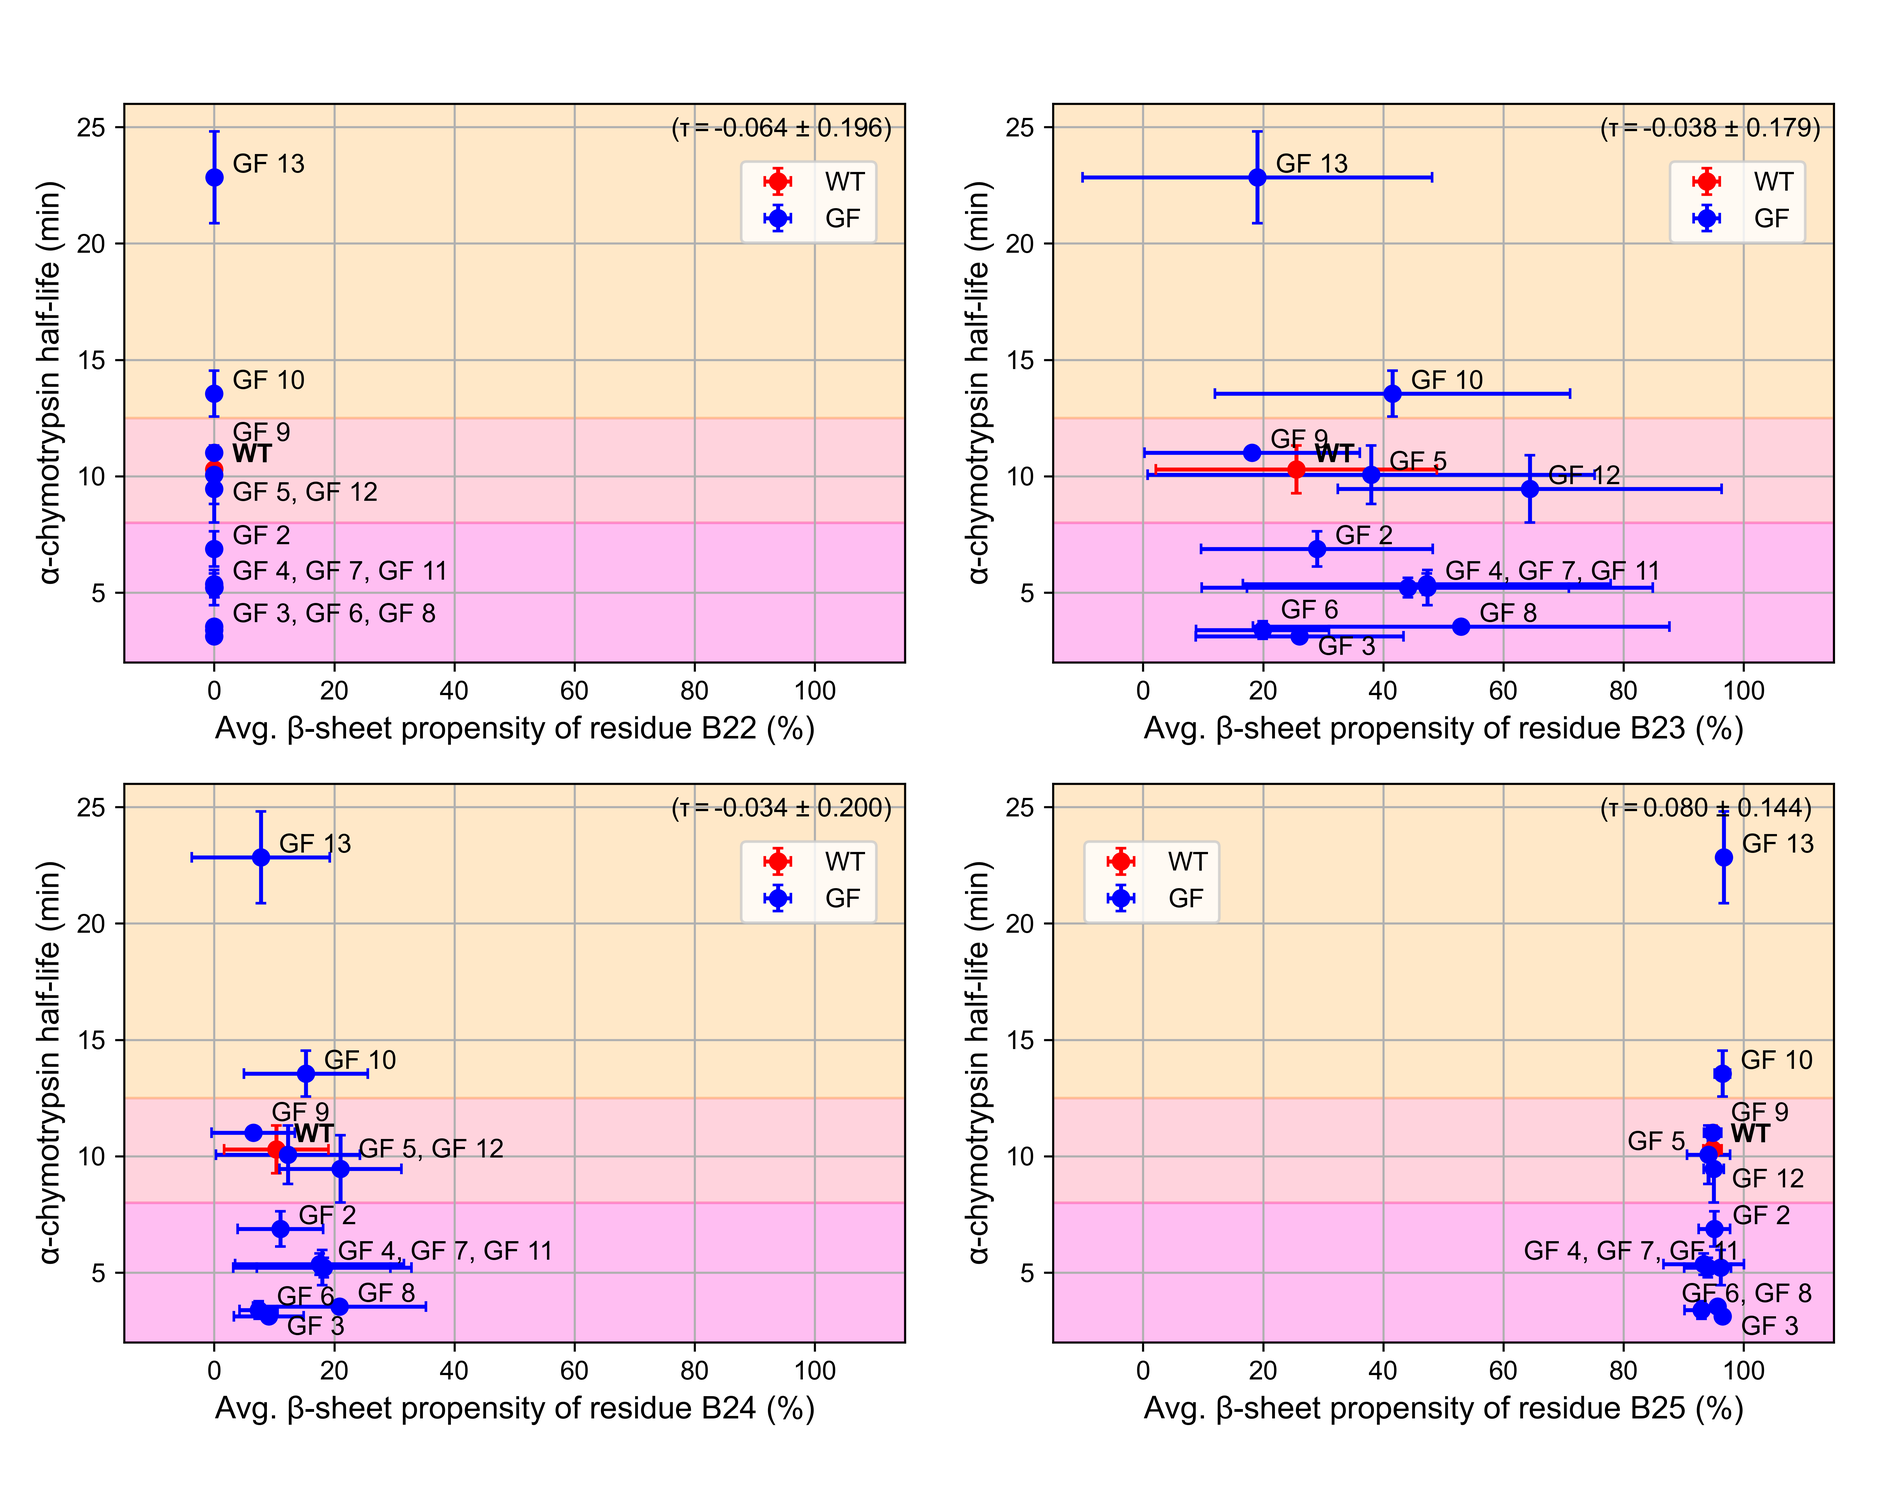
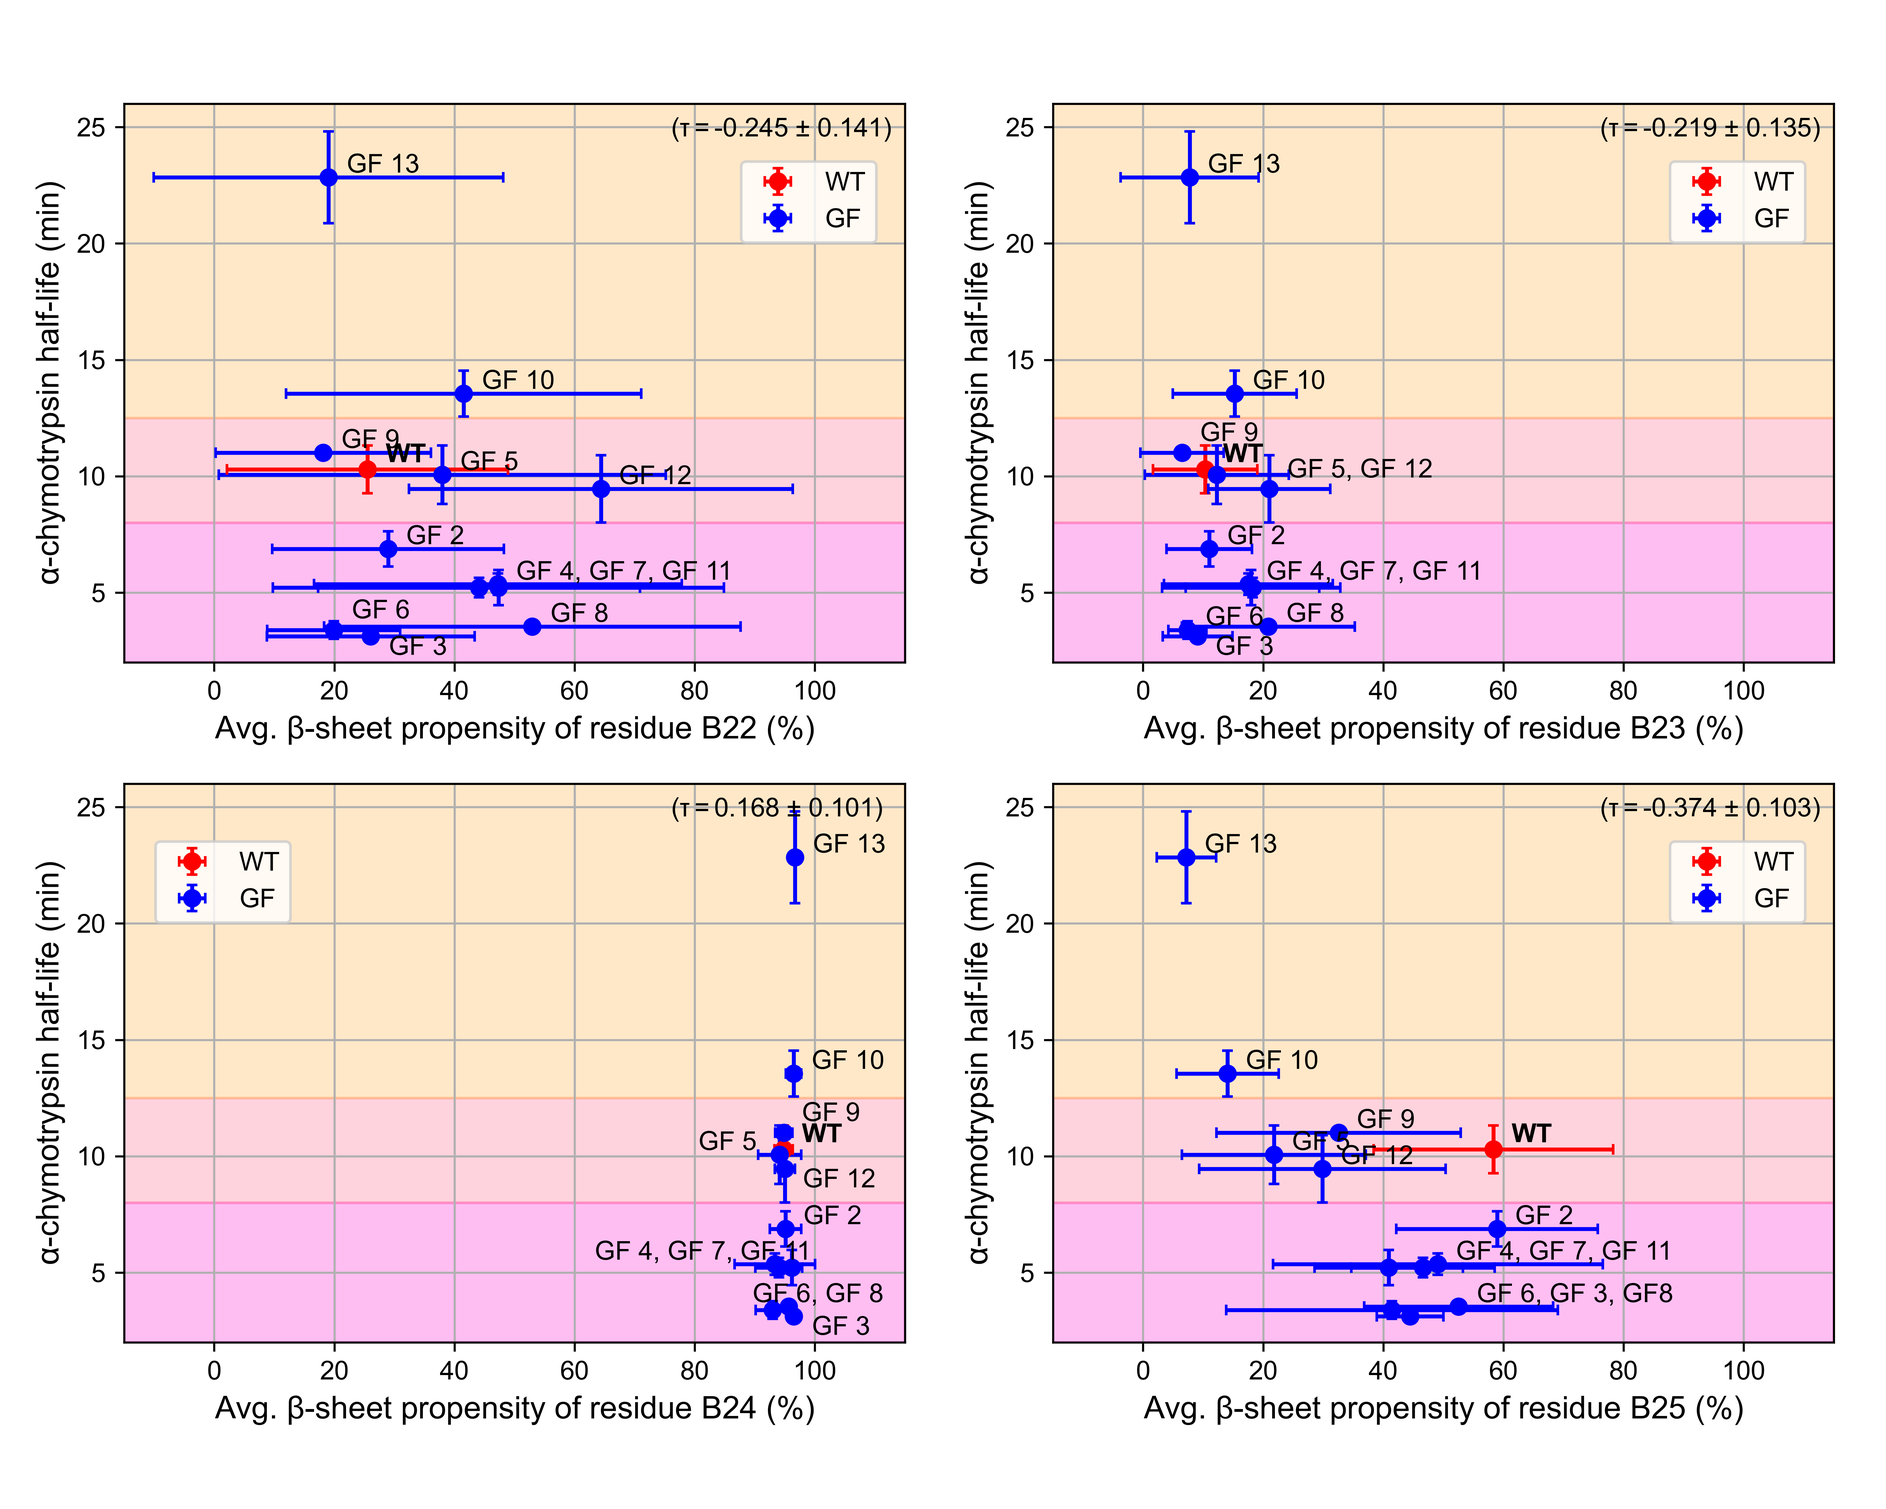
Modified the codes for plotting correlation plots in the main text and updated the plots

diff --git a/analysis_results/proteolytic_stability/Metric_3/plot_avg_beta_propensity_correlation.py b/analysis_results/proteolytic_stability/Metric_3/plot_avg_beta_propensity_correlation.py
@@ -27,7 +27,15 @@ def read_experimental_data():
 
     return height, err
 
-def correlation_bootstrapping(x, y, x_err, y_err, n_boot=500):
+def bootstrapping_normal(x, y, x_err, y_err, n_boot=500):
+    """
+    This function generates bootstrap samples for x and y data by drawing 
+    samples from normal distributions centered at the means of x and y data
+    to calculate the correlation coefficient and its uncertainty.
+
+    Note that this method is not used in the most updated code but we keep
+    here as a record.
+    """
     r_list = []
     for i in range(n_boot):
         data_1, data_2 = [], []
@@ -42,20 +50,35 @@ def correlation_bootstrapping(x, y, x_err, y_err, n_boot=500):
 
     return r, r_err
 
-def bootstrapping_sample(x_data, y_data):
+def bootstrapping_sample(x_data, y_mean, y_err, n_boot=500):
+    """
+    This functions bootstraps over the raw data of x (e.g. computational values)
+    and a normal distribution centered at the mean of y (e.g. experimental values)
+    to calcualte the uncertainty of the correlation coefficient.
+
+    Parameters
+    ----------
+    x (array-like): 
+        The raw data of x. Should be in the shape of (n_variants, n_WTmodels)
+    y_mean (array-like): 
+        The experimental data. The length should be 13. 
+    y_err (array-like): 
+        The uncertainty of the experimental data points. The length should be 13
+    """
     # Boostrap over the data of 5 different WT models
     x_data = np.transpose(x_data)   # should be (13, 5), or (n_variants, n_WTmodels)
     r_list = []
-    for i in range(500):  # number of bootstrap
-        data = []
+    for i in range(n_boot):  # number of bootstrap
+        xx, yy = [], []   # bootstrap samples for variables x and y
         for j in range(len(x_data)):  # 13 variants:
-            data.append(np.mean(random.choices(x_data[j], k=len(x_data[j]))))
-        coef, p_val = scipy.stats.kendalltau(data, y_data)
+            xx.append(np.mean(random.choices(x_data[j], k=len(x_data[j]))))
+            yy.append(np.mean(np.random.normal(y_mean[j], y_err[j], len(x_data[j]))))
+        coef, p_val = scipy.stats.kendalltau(xx, yy)
         r_list.append(coef)
-    r = np.mean(r_list)
-    r_err = np.std(r_list)
+    # r = np.mean(r_list)
+    r_err = np.std(r_list)  # we only use bootstrapping to calculate the uncertainty here
 
-    return r, r_err
+    return r_err
 
 if __name__ == "__main__":
     rc("font", **{"family": "sans-serif", "sans-serif": ["DejaVu Sans"], "size": 10})
@@ -84,6 +107,7 @@ if __name__ == "__main__":
                 beta = pickle.load(handle)  # a list of 13 beta fractions
                 beta_GF.append(beta)
         beta_all.append(beta_GF)
+    beta_all = np.array(beta_all)   # shape (5, 4, 13)
 
     #upper_bounds = np.array([0.025, 100, 37, 101.5])    # upper bounds in x
     #lower_bounds = np.array([-0.006, -12, -5, 86])    # lower bounds in x
@@ -94,12 +118,17 @@ if __name__ == "__main__":
     adjust_x = [3, 3, 3, 3]  # [0.001, 3, 1, 0.25]
     label_x = [-0.0055, -10, -4.5, 86.2]
 
-    # Plot the correlation plots
+    # Plot the correlation plots and perform bootstrapping
+    random.seed(2021)
+    np.random.seed(2021)
     exp_h, exp_err = read_experimental_data()
     avg, err = np.mean(beta_all, axis=0), np.std(beta_all, axis=0)
-    c_list, e_list = [], []  # Pearson correlation coefficients and the p-values
+    
+    c_list, e_list = [], []
     for i in range(4):
-        c, e = correlation_bootstrapping(avg[i], exp_h, err[i], exp_err)
+        # Note that the shape of beta_all is (5, 4, 13), so beta_all[:, i, :] is in shape of (5, 13)
+        c, _ = scipy.stats.kendalltau(avg[i], exp_h)
+        e = bootstrapping_sample(beta_all[:, i, :], exp_h, exp_err)
         c_list.append(c)
         e_list.append(e)
     
@@ -114,60 +143,58 @@ if __name__ == "__main__":
                 plt.text(avg[i][j] + adjust_x[i], exp_h[j] + 0.3, sys[j], weight='bold')
                 
             else:
-                if j == 1:
+                if j == 1:  # just to separate different legends (WT and GF)
                     plt.errorbar(avg[i][j], exp_h[j], xerr=err[i][j], yerr=exp_err[j], fmt="o", color='blue', capsize=2, label='GF')
                 else:
                     plt.errorbar(avg[i][j], exp_h[j], xerr=err[i][j], yerr=exp_err[j], fmt="o", color='blue', capsize=2)
-                pass_list_1 = [2, 3, 4, 5, 6]
-                pass_list_2 = [3, 6]
-                pass_list_3 = [3, 4, 6]
-                pass_list_4 = [3, 5, 6]
+                
+                pass_list_1 = [3, 6]
+                pass_list_2 = [3, 4, 6]
+                pass_list_3 = [3, 5, 6]
+                pass_list_4 = [2, 3, 5, 6]
+
                 if i == 0 and j in pass_list_1:
                     pass
-                elif i == 0 and (j == 7):
-                    plt.text(avg[i][j] + adjust_x[i], exp_h[j] + 0.2, 'GF 3, GF 6, GF 8')
+                elif i == 0 and (j == 2):
+                    plt.text(avg[i][j] + adjust_x[i], exp_h[j] - 0.8, 'GF 3')
+                elif i == 0 and (j == 5):
+                    plt.text(avg[i][j] + adjust_x[i], exp_h[j] + 0.5, 'GF 6')
                 elif i == 0 and (j == 10):
                     plt.text(avg[i][j] + adjust_x[i], exp_h[j] + 0.2, 'GF 4, GF 7, GF 11')
-                elif i == 0 and (j == 8):
-                    plt.text(avg[i][j] + adjust_x[i], exp_h[j] + 0.5, 'GF 9')
-                elif i == 0 and (j == 11):
-                    plt.text(avg[i][j] + adjust_x[i], exp_h[j] - 0.5, 'GF 5, GF 12')
-
-
+                
                 elif i == 1 and j in pass_list_2:
                     pass
                 elif i == 1 and (j == 2):
                     plt.text(avg[i][j] + adjust_x[i], exp_h[j] - 0.8, 'GF 3')
-                elif i == 1 and (j == 5):
-                    plt.text(avg[i][j] + adjust_x[i], exp_h[j] + 0.5, 'GF 6')
+                elif i == 1 and (j == 8):
+                    plt.text(avg[i][j] + adjust_x[i], exp_h[j] + 0.5, 'GF 9')
                 elif i == 1 and (j == 10):
                     plt.text(avg[i][j] + adjust_x[i], exp_h[j] + 0.2, 'GF 4, GF 7, GF 11')
+                elif i == 1 and (j == 11):
+                    plt.text(avg[i][j] + adjust_x[i], exp_h[j] + 0.5, 'GF 5, GF 12')
+
                 
                 elif i == 2 and j in pass_list_3:
                     pass
-                elif i == 2 and (j == 2):
-                    plt.text(avg[i][j] + adjust_x[i], exp_h[j] - 0.8, 'GF 3')
+                elif i == 2 and (j == 4):
+                    plt.text(avg[i][j] - 4.5 * adjust_x[i], exp_h[j] + 0.2, 'GF 5')
                 elif i == 2 and (j == 8):
                     plt.text(avg[i][j] + adjust_x[i], exp_h[j] + 0.5, 'GF 9')
-                elif i == 2 and (j == 10):
-                    plt.text(avg[i][j] + adjust_x[i], exp_h[j] + 0.2, 'GF 4, GF 7, GF 11')
                 elif i == 2 and (j == 11):
-                    plt.text(avg[i][j] + adjust_x[i], exp_h[j] + 0.5, 'GF 5, GF 12')
-
-                elif i == 3 and j in pass_list_4:
-                    pass
-                elif i == 3 and (j == 4):
-                    plt.text(avg[i][j] - 4.5 * adjust_x[i], exp_h[j] + 0.2, 'GF 5')
-                elif i == 3 and (j == 8):
-                    plt.text(avg[i][j] + adjust_x[i], exp_h[j] + 0.5, 'GF 9')
-                elif i == 3 and (j == 11):
                     plt.text(avg[i][j] + adjust_x[i], exp_h[j] - 0.8, 'GF 12')
-                elif i == 3 and (j == 10):
+                elif i == 2 and (j == 10):
                     plt.text(avg[i][j] - 10 * adjust_x[i], exp_h[j] + 0.2, 'GF 4, GF 7, GF 11')
-                elif i == 3 and (j == 2):
+                elif i == 2 and (j == 2):
                     plt.text(avg[i][j] + adjust_x[i], exp_h[j] - 0.8, 'GF 3')
-                elif i == 3 and (j == 7):
+                elif i == 2 and (j == 7):
                     plt.text(avg[i][j] - 2 * adjust_x[i], exp_h[j] + 0.2, 'GF 6, GF 8')
+                
+                elif i == 3 and j in pass_list_4:
+                    pass 
+                elif i == 3 and (j == 7): 
+                    plt.text(avg[i][j] + adjust_x[i], exp_h[j] + 0.2, 'GF 6, GF 3, GF8')
+                elif i == 3 and (j == 10):
+                    plt.text(avg[i][j] + adjust_x[i], exp_h[j] + 0.2, 'GF 4, GF 7, GF 11')
 
                 else:
                     plt.text(avg[i][j] + adjust_x[i], exp_h[j] + 0.2, sys[j])
@@ -187,7 +214,7 @@ if __name__ == "__main__":
         plt.xlim([lower_bounds[i], upper_bounds[i]])
         plt.ylim([2, 26])
 
-        if i == 3:
+        if i == 2:
             plt.legend(bbox_to_anchor=(0.23, 0.92))
         else:
             plt.legend(bbox_to_anchor=(0.98, 0.92))

diff --git a/analysis_results/proteolytic_stability/Metric_1/plot_PB_SASA_correlation.py b/analysis_results/proteolytic_stability/Metric_1/plot_PB_SASA_correlation.py
@@ -53,8 +53,14 @@ def read_experimental_data():
     return height, err
 
 def bootstrapping_normal(x, y, x_err, y_err, n_boot=500):
-    # Generate boostrap samples from a normal distribution
-    # Not used in the most recently updated code but we keep it here
+    """
+    This function generates bootstrap samples for x and y data by drawing 
+    samples from normal distributions centered at the means of x and y data
+    to calculate the correlation coefficient and its uncertainty.
+
+    Note that this method is not used in the most updated code but we keep
+    here as a record.
+    """
     r_list = []
     for i in range(n_boot):
         data_1, data_2 = [], []
@@ -69,20 +75,35 @@ def bootstrapping_normal(x, y, x_err, y_err, n_boot=500):
 
     return r, r_err
 
-def bootstrapping_sample(x_data, y_data):
+def bootstrapping_sample(x_data, y_mean, y_err):
+    """
+    This functions bootstraps over the raw data of x (e.g. computational values)
+    and a normal distribution centered at the mean of y (e.g. experimental values)
+    to calcualte the uncertainty of the correlation coefficient.
+
+    Parameters
+    ----------
+    x (array-like): 
+        The raw data of x. Should be in the shape of (n_variants, n_WTmodels)
+    y_mean (array-like): 
+        The experimental data. The length should be 13. 
+    y_err (array-like): 
+        The uncertainty of the experimental data points. The length should be 13
+    """
     # Boostrap over the data of 5 different WT models
     x_data = np.transpose(x_data)   # should be (13, 5), or (n_variants, n_WTmodels)
     r_list = []
     for i in range(500):  # number of bootstrap
-        data = []
+        xx, yy = [], []   # bootstrap samples for variables x and y
         for j in range(len(x_data)):  # 13 variants:
-            data.append(np.mean(random.choices(x_data[j], k=len(x_data[j]))))
-        coef, p_val = scipy.stats.kendalltau(data, y_data)
+            xx.append(np.mean(random.choices(x_data[j], k=len(x_data[j]))))
+            yy.append(np.mean(np.random.normal(y_mean[j], y_err[j], len(x_data[j]))))
+        coef, p_val = scipy.stats.kendalltau(xx, yy)
         r_list.append(coef)
-    r = np.mean(r_list)
-    r_err = np.std(r_list)
+    # r = np.mean(r_list)
+    r_err = np.std(r_list)  # we only use bootstrapping to calculate the uncertainty here
 
-    return r, r_err
+    return r_err
 
 if __name__ == "__main__":
     t1 = time.time()
@@ -133,12 +154,16 @@ if __name__ == "__main__":
 
     # Perform bootstrapping to estimate the the correlation coef and its uncertainty
     random.seed(2021)
+    np.random.seed(2021)
     exp_h, exp_err = read_experimental_data()
     B25_avg, B25_std = sum_up_data(B25_sasa, B25_err)
     B26_avg, B26_std = sum_up_data(B26_sasa, B26_err)
 
-    c1, e1 = bootstrapping_sample(B25_sasa, exp_h)
-    c2, e2 = bootstrapping_sample(B26_sasa, exp_h)
+    c1, _ = scipy.stats.kendalltau(B25_avg, exp_h)
+    c2, _ = scipy.stats.kendalltau(B26_avg, exp_h)
+
+    e1 = bootstrapping_sample(B25_sasa, exp_h, exp_err)
+    e2 = bootstrapping_sample(B26_sasa, exp_h, exp_err)
 
     # Figure 1
     plt.figure(figsize=(6, 8))

diff --git a/analysis_results/proteolytic_stability/Metric_2/plot_res_SASA_correlation.py b/analysis_results/proteolytic_stability/Metric_2/plot_res_SASA_correlation.py
@@ -52,7 +52,15 @@ def read_experimental_data():
 
     return height, err
 
-def correlation_bootstrapping(x, y, x_err, y_err, n_boot=500):
+def bootstrapping_normal(x, y, x_err, y_err, n_boot=500):
+    """
+    This function generates bootstrap samples for x and y data by drawing 
+    samples from normal distributions centered at the means of x and y data
+    to calculate the correlation coefficient and its uncertainty.
+
+    Note that this method is not used in the most updated code but we keep
+    here as a record.
+    """
     r_list = []
     for i in range(n_boot):
         data_1, data_2 = [], []
@@ -67,20 +75,35 @@ def correlation_bootstrapping(x, y, x_err, y_err, n_boot=500):
 
     return r, r_err
 
-def bootstrapping_sample(x_data, y_data):
+def bootstrapping_sample(x_data, y_mean, y_err):
+    """
+    This functions bootstraps over the raw data of x (e.g. computational values)
+    and a normal distribution centered at the mean of y (e.g. experimental values)
+    to calcualte the uncertainty of the correlation coefficient.
+
+    Parameters
+    ----------
+    x (array-like): 
+        The raw data of x. Should be in the shape of (n_variants, n_WTmodels)
+    y_mean (array-like): 
+        The experimental data. The length should be 13. 
+    y_err (array-like): 
+        The uncertainty of the experimental data points. The length should be 13
+    """
     # Boostrap over the data of 5 different WT models
     x_data = np.transpose(x_data)   # should be (13, 5), or (n_variants, n_WTmodels)
     r_list = []
     for i in range(500):  # number of bootstrap
-        data = []
+        xx, yy = [], []   # bootstrap samples for variables x and y
         for j in range(len(x_data)):  # 13 variants:
-            data.append(np.mean(random.choices(x_data[j], k=len(x_data[j]))))
-        coef, p_val = scipy.stats.kendalltau(data, y_data)
+            xx.append(np.mean(random.choices(x_data[j], k=len(x_data[j]))))
+            yy.append(np.mean(np.random.normal(y_mean[j], y_err[j], len(x_data[j]))))
+        coef, p_val = scipy.stats.kendalltau(xx, yy)
         r_list.append(coef)
-    r = np.mean(r_list)
-    r_err = np.std(r_list)
+    # r = np.mean(r_list)
+    r_err = np.std(r_list)  # we only use bootstrapping to calculate the uncertainty here
 
-    return r, r_err
+    return r_err
 
 if __name__ == "__main__":
     t1 = time.time()
@@ -136,12 +159,16 @@ if __name__ == "__main__":
 
     # Perform bootstrapping to estimate the the correlation coef and its uncertainty
     random.seed(2021)
+    np.random.seed(2021)
     exp_h, exp_err = read_experimental_data()
     B24_avg, B24_std = sum_up_data(B24_sasa, B24_err)
     B25_avg, B25_std = sum_up_data(B25_sasa, B25_err)
 
-    c1, e1 = bootstrapping_sample(B24_sasa, exp_h)
-    c2, e2 = bootstrapping_sample(B25_sasa, exp_h)
+    c1, _ = scipy.stats.kendalltau(B24_avg, exp_h)
+    c2, _ = scipy.stats.kendalltau(B25_avg, exp_h)
+
+    e1 = bootstrapping_sample(B24_sasa, exp_h, exp_err)
+    e2 = bootstrapping_sample(B25_sasa, exp_h, exp_err)
     
     # Figure 1
     plt.figure(figsize=(6, 8))

diff --git a/analysis_results/supporting_information/disorder_characterization/helix_melting/helix_model/build_helix_model.py b/analysis_results/supporting_information/disorder_characterization/helix_melting/helix_model/build_helix_model.py
@@ -7,16 +7,20 @@ from cg_openmm.utilities.helix_optimize_nonbonded import *
 
 # Epsilon parameters are assumed equal for backbone and sidechain.
 
+# References of the parameters:
+# Ref 1: Characterization of Biomolecular Helices and Their Complementarity Using Geometric Analysis
+# Ref 2: Minimialist models for proteins: A comparative analysis
+
 # Helical parameters:
-radius = 2.3 * unit.angstrom
-pitch = 5.5 * unit.angstrom
+radius = 2.3 * unit.angstrom  # From Ref 1
+pitch = 5.5 * unit.angstrom   # From Ref 1
 
 # Bond lengths:
-bond_dist_bb = 3.8 * unit.angstrom
-bond_dist_sc = 3.8 * unit.angstrom
+bond_dist_bb = 3.8 * unit.angstrom   # From Ref 2
+bond_dist_sc = 3.8 * unit.angstrom   # This does not really matter in our case
 
 # Number of backbone particles:
-n_particle_bb = 9
+n_particle_bb = 9   # number of residues we want in the PDB file
 
 opt_solution, geometry = optimize_helix_LJ_parameters(
     radius, pitch, n_particle_bb,

diff --git a/analysis_results/supporting_information/transition_analysis/sasa_transition_analysis.py b/analysis_results/supporting_information/transition_analysis/sasa_transition_analysis.py
@@ -60,7 +60,7 @@ if __name__ == "__main__":
     x = tabulate_sasa_result(data_dir, sys, '_sasa_B25.xvg', 2, analyze_time_series)
     logger(x)
 
-    logger('\n(2) SASA of the scissile bond between B25-B26 (units: nm^2)')
+    logger('\n(2) SASA of the scissile bond between B26-B27 (units: nm^2)')
     x = tabulate_sasa_result(data_dir, sys, '_sasa_B26.xvg', 2, analyze_time_series)
     logger(x)
 
